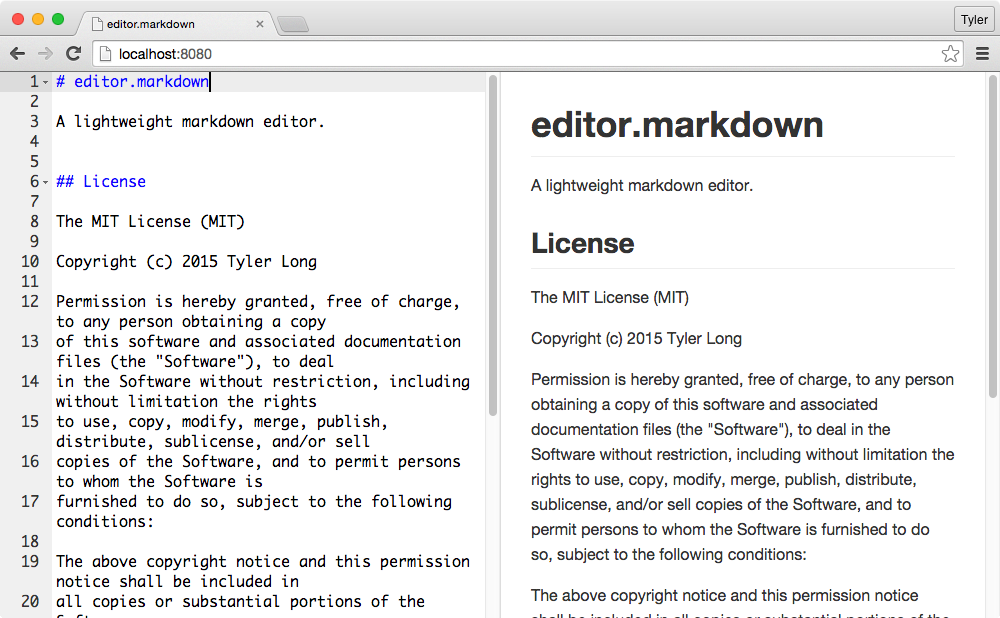
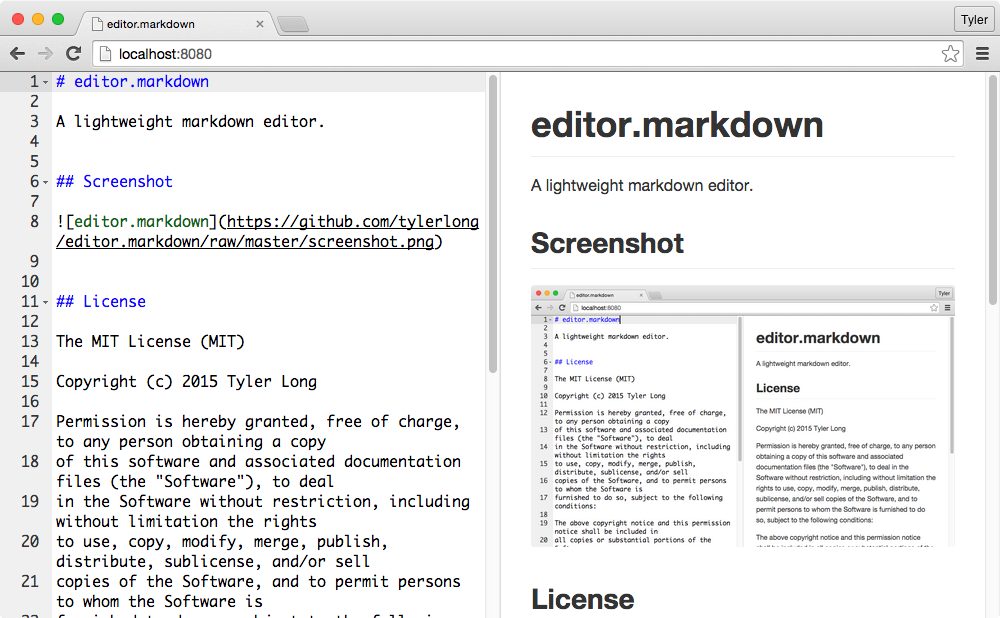
Add screenshot to readme file

diff --git a/README.md b/README.md
@@ -3,6 +3,11 @@
 A lightweight markdown editor.
 
 
+## Screenshot
+
+![editor.markdown](https://github.com/tylerlong/editor.markdown/raw/master/screenshot.png)
+
+
 ## License
 
 The MIT License (MIT)
